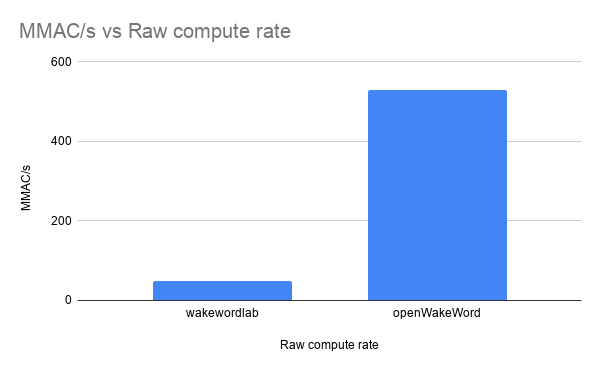
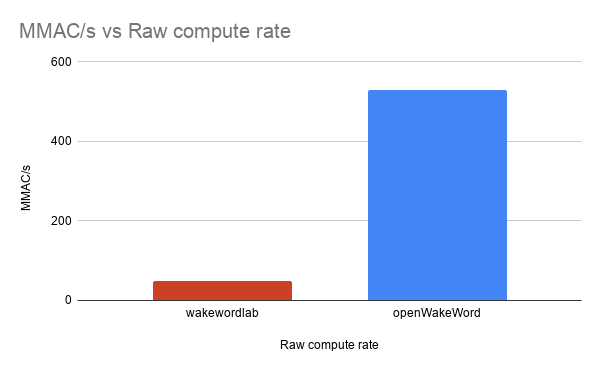
Update README visuals

Changed region(s): [[0.24, 0.7412, 0.51, 0.8302]]

diff --git a/README.md b/README.md
@@ -28,12 +28,11 @@ Measured on a Raspberry Pi 3 using one pinned CPU core, single-thread inference,
 | openWakeWord (`mel + embedding + hey_jarvis head`) | `42.4` | `80 ms` | `530.3` | `405.7 ms` | `40.6% of one core` | `2.66x` |
 
 ### Visual comparison
-
-![Model footprint](<images/Size in MB vs Model footprint.png>)
-
-![Raw compute rate](<images/MMAC_s vs Raw compute rate.png>)
-
-![Raspberry Pi 3 measured CPU cost](<images/_ of one Pi 3 core vs Raspberry Pi 3 measured CPU cost.png>)
+<p align="center">
+  <img src="images/Size%20in%20MB%20vs%20Model%20footprint.png" alt="Model footprint" width="32%">
+  <img src="images/MMAC_s%20vs%20Raw%20compute%20rate.png" alt="Raw compute rate" width="32%">
+  <img src="images/_%20of%20one%20Pi%203%20core%20vs%20Raspberry%20Pi%203%20measured%20CPU%20cost.png" alt="Raspberry Pi 3 measured CPU cost" width="32%">
+</p>
 
 ### What this means
 